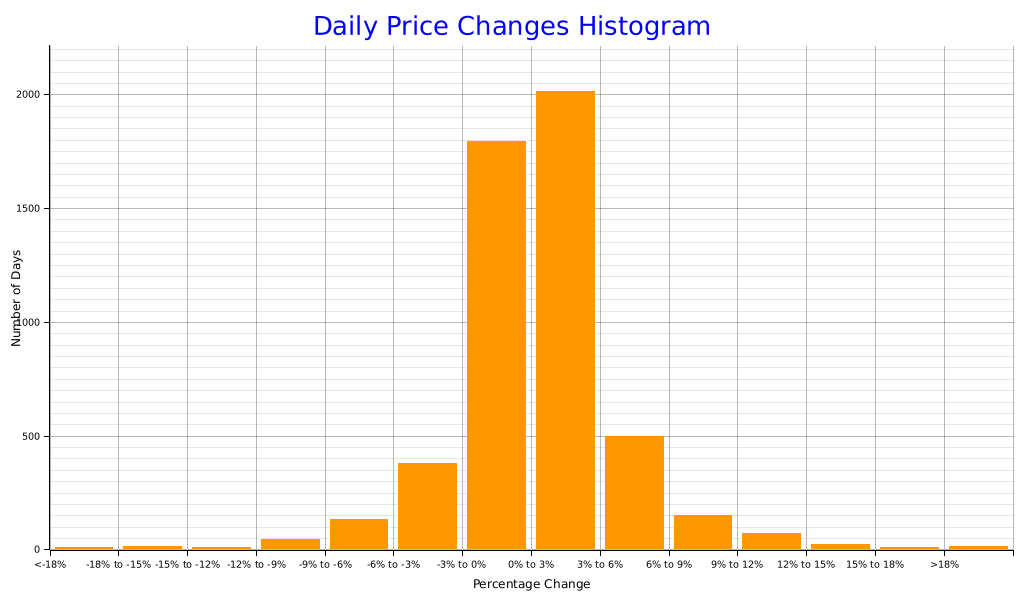
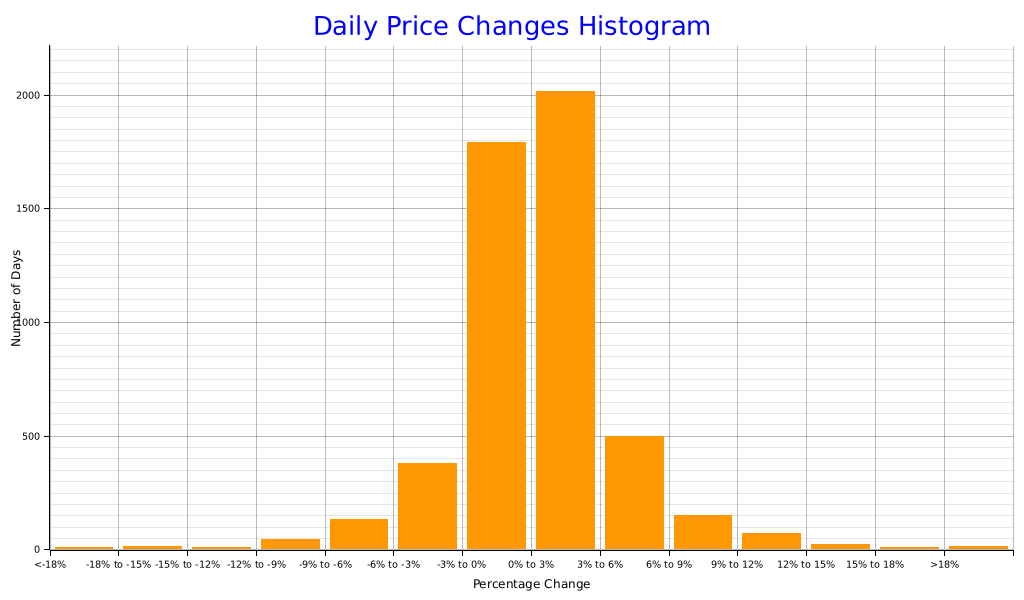
deploy: f2163d761afb89bcd055eb3b1c56ca82929363b8

diff --git a/index.html b/index.html
@@ -34,7 +34,7 @@
           <td>97,860.60</td>
           <td>74,551.33</td>
           <td></td>
-          <td>1,443,961,372,672.0</td>
+          <td>1,443,252,011,008.0</td>
         </tr>
         <tr>
           <td class='yearly-summary-year'>2025</td>
@@ -194,11 +194,11 @@
         </tr>
         <tr>
           <td>-3% to 0%</td>
-          <td>1794</td>
+          <td>1793</td>
         </tr>
         <tr>
           <td>0% to 3%</td>
-          <td>2013</td>
+          <td>2014</td>
         </tr>
         <tr>
           <td>3% to 6%</td>
@@ -235,7 +235,7 @@
     <br><br>
     <a href='https://github.com/bitcoin-tools/btracker'>Link to the report codebase</a>
     <br><br>
-    This report was last updated at 2026-02-03 07:04:50.604514111 UTC.
+    This report was last updated at 2026-02-03 07:55:55.458437724 UTC.
     <br><br>
     <div class='scrollable-table'>
       <table>
@@ -259,12 +259,12 @@
             <td>78,677.44</td>
             <td>79,008.90</td>
             <td>77,604.50</td>
-            <td>78,468.14</td>
-            <td class='wma-column'>57,970.60</td>
-            <td>23.50 (0.04 %)</td>
-            <td>32,912.14 (72.2 %)</td>
+            <td>78,695.08</td>
+            <td class='wma-column'>57,970.76</td>
+            <td>23.66 (0.04 %)</td>
+            <td>33,139.09 (72.7 %)</td>
             <td>1,404.39 (1.7 %)</td>
-            <td>-220.62 (0.2 %)</td>
+            <td>6.32 (0.0 %)</td>
           </tr>
           <tr>
             <td>2026-02-02</td>
